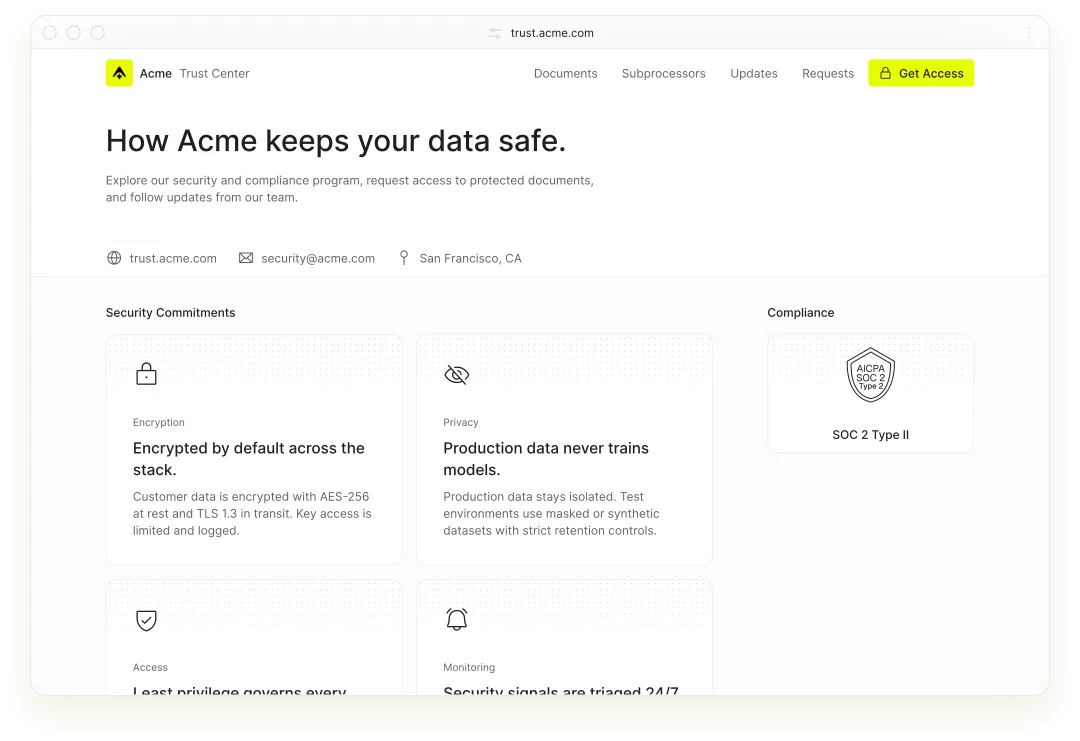
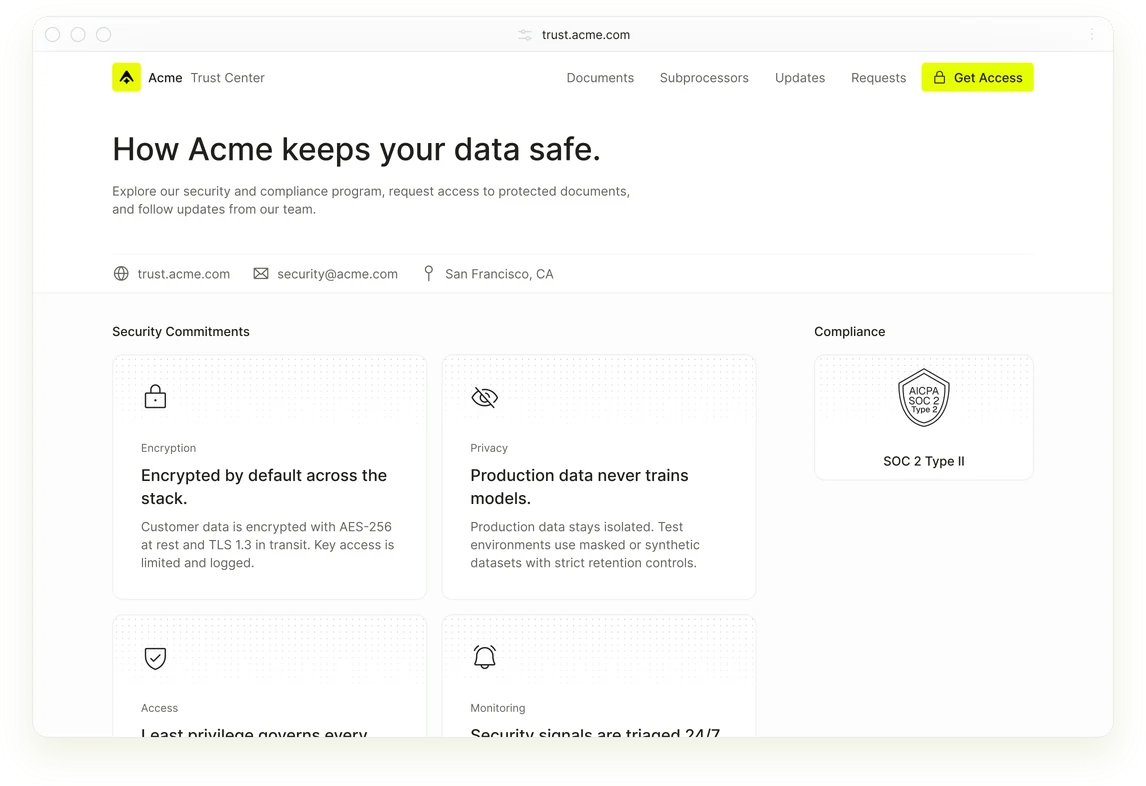
Add image alts, a 2x portal hero, and in-content internal links.
Empty badge alts were flagging most pages, the compliance portal hero was a 1x WebP, and several hub/blog articles only linked to contact.

diff --git a/src/lib/remark-require-image-alt.ts b/src/lib/remark-require-image-alt.ts
@@ -1,0 +1,80 @@
+type MdxJsxAttribute = {
+  type: "mdxJsxAttribute";
+  name: string;
+  value?: string | { value?: string } | null;
+};
+
+type Walkable = {
+  type: string;
+  alt?: string | null;
+  url?: string;
+  name?: string;
+  attributes?: MdxJsxAttribute[];
+  children?: Walkable[];
+  position?: { start?: { line?: number } };
+};
+
+function walk(node: Walkable, visit: (node: Walkable) => void) {
+  visit(node);
+  for (const child of node.children ?? []) {
+    walk(child, visit);
+  }
+}
+
+function attributeValue(attribute: MdxJsxAttribute | undefined): string | null {
+  if (!attribute) {
+    return null;
+  }
+  if (typeof attribute.value === "string") {
+    return attribute.value;
+  }
+  if (attribute.value && typeof attribute.value.value === "string") {
+    return attribute.value.value;
+  }
+  return "";
+}
+
+export function remarkRequireImageAlt() {
+  return (
+    tree: Walkable,
+    file: { path?: string; fail: (reason: string) => void },
+  ) => {
+    const problems: string[] = [];
+
+    walk(tree as Walkable, (node) => {
+      const line = node.position?.start?.line;
+      const at = line ? `:${line}` : "";
+
+      if (node.type === "image") {
+        if (!node.alt?.trim()) {
+          problems.push(
+            `${file.path ?? "content"}${at}: markdown image ${node.url ?? ""} is missing alt text`,
+          );
+        }
+        return;
+      }
+
+      if (
+        (node.type === "mdxJsxFlowElement" ||
+          node.type === "mdxJsxTextElement") &&
+        node.name === "img"
+      ) {
+        const alt = node.attributes?.find(
+          (attribute) =>
+            attribute.type === "mdxJsxAttribute" && attribute.name === "alt",
+        );
+        if (alt == null || attributeValue(alt) == null) {
+          problems.push(
+            `${file.path ?? "content"}${at}: <img> is missing an alt attribute`,
+          );
+        }
+      }
+    });
+
+    if (problems.length > 0) {
+      file.fail(
+        `Images must have alt text so the collection does not regress.\n${problems.join("\n")}`,
+      );
+    }
+  };
+}

diff --git a/src/content.config.ts b/src/content.config.ts
@@ -6,27 +6,40 @@ import { docsSchema } from "@astrojs/starlight/schema";
 
 export const pageSize = 10;
 
+const nonEmptyAlt = z
+  .string()
+  .trim()
+  .min(1, "Image alt text is required and cannot be empty");
+
 const blog = defineCollection({
   loader: glob({ pattern: "**/*.mdx", base: "./src/content/blog" }),
-  schema: z.object({
-    title: z.string(),
-    date: z.date(),
-    dateModified: z.date().optional(),
-    /** Meta description / preview excerpt; keep 120-160 chars for SEO. */
-    excerpt: z.string().min(120),
-    author: z.object({
-      name: z.string(),
+  schema: z
+    .object({
+      title: z.string(),
+      date: z.date(),
+      dateModified: z.date().optional(),
+      /** Meta description / preview excerpt; keep 120-160 chars for SEO. */
+      excerpt: z.string().min(120),
+      author: z.object({
+        name: z.string(),
+      }),
+      ogImage: z.string().optional(),
+      /** Optional hero image shown next to the title. Requires titleImageAlt. */
+      titleImage: z.string().optional(),
+      titleImageAlt: nonEmptyAlt.optional(),
+      faqs: z
+        .array(
+          z.object({
+            question: z.string(),
+            answer: z.string(),
+          }),
+        )
+        .optional(),
+    })
+    .refine((data) => !data.titleImage || Boolean(data.titleImageAlt), {
+      message: "titleImageAlt is required when titleImage is set",
+      path: ["titleImageAlt"],
     }),
-    ogImage: z.string().optional(),
-    faqs: z
-      .array(
-        z.object({
-          question: z.string(),
-          answer: z.string(),
-        }),
-      )
-      .optional(),
-  }),
 });
 
 const stories = defineCollection({
@@ -45,6 +58,7 @@ const stories = defineCollection({
       )
       .min(1),
     image: z.string(),
+    imageAlt: nonEmptyAlt,
     previewImage: z.string().optional(),
     /** Public URL for a muted looping card trailer (e.g. /stories/trailers/foo.mp4) */
     trailer: z.string().optional(),

diff --git a/src/components/FrameworkBadge.svelte b/src/components/FrameworkBadge.svelte
@@ -2,8 +2,10 @@
   import type { AnimationItem } from "lottie-web";
   import { onDestroy } from "svelte";
   import { useIntersectionObserver } from "../lib/runes/useIntersectionObserver.svelte.ts";
+  import { frameworkBadgeAlt } from "../content/frameworks.ts";
 
   const { name, class: className }: { name: string; class?: string } = $props();
+  const badgeAlt = frameworkBadgeAlt(name);
   const staticName = name.replace(/_dark$/, "");
   const isDark = name.endsWith("_dark");
   const intersection = useIntersectionObserver({ threshold: 0.2 });
@@ -84,18 +86,12 @@
   });
 </script>
 
-<div
-  bind:this={intersection.ref}
-  class={`${className ?? ""} relative`}
-  role="img"
-  aria-label={`Badge ${name}`}
->
+<div bind:this={intersection.ref} class={`${className ?? ""} relative`}>
   <img
     src={`/frameworks/${staticName}.svg`}
-    alt=""
+    alt={badgeAlt}
     width="60"
     height="60"
-    aria-hidden="true"
     class:invert={isDark}
     class="size-full transition-opacity duration-200"
     class:opacity-0={animationReady}

diff --git a/src/content/frameworks.ts b/src/content/frameworks.ts
@@ -17,3 +17,12 @@ export const frameworks = [
   badge: string;
   badgeDark?: string;
 }[];
+
+export function frameworkBadgeAlt(name: string): string {
+  const key = name.replace(/_dark$/, "");
+  const match = frameworks.find(
+    (framework) => framework.badge === key || framework.badgeDark === name,
+  );
+  const label = match?.label ?? key.replaceAll("_", " ");
+  return `${label} compliance badge`;
+}

diff --git a/src/schema.ts b/src/schema.ts
@@ -13,6 +13,7 @@ export const StorySchema = z.object({
     )
     .min(1),
   image: z.string(),
+  imageAlt: z.string().trim().min(1),
   previewImage: z.string().optional(),
   trailer: z.string().optional(),
   trailerPoster: z.string().optional(),
